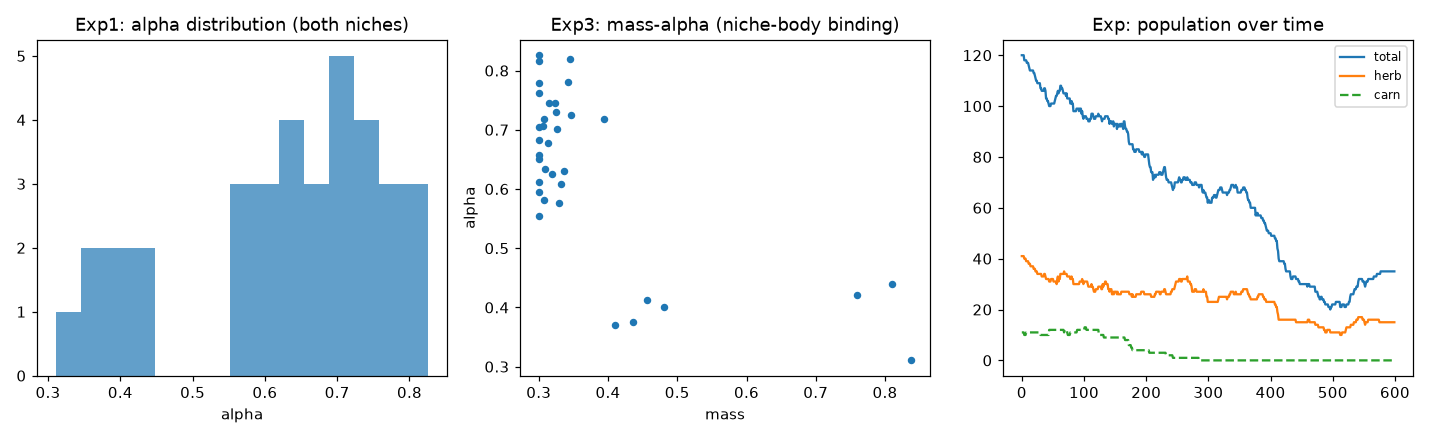
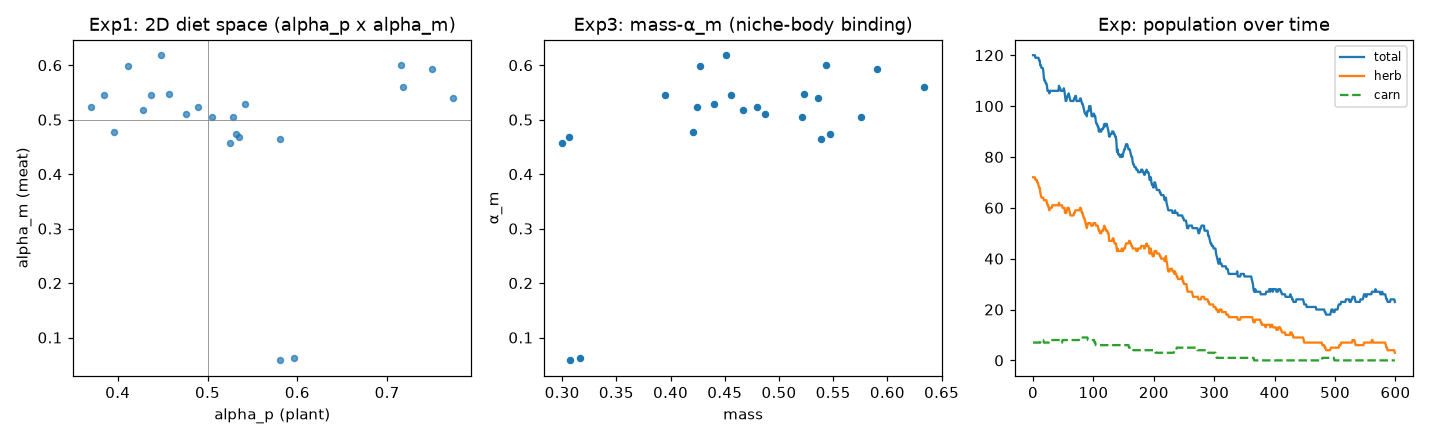
ai-theory: stage25 食性二维化（R122）— α 拆 α_p/α_m 独立基因：全能税（双高者重税）/主导偏好判定/捕食回报 3.5 补偿爬升；决策空间四象限（杂食/专业/挑食）；主判定食肉 52% 食草 100% ✓ 捕食链自持

diff --git a/m5/stage25_body_size_layers.py b/m5/stage25_body_size_layers.py
@@ -19,15 +19,16 @@ import matplotlib
 matplotlib.use("Agg")
 import matplotlib.pyplot as plt
 
-# ============ 参数总览（精细化 R122）============
-# 环境：W×H=200² / 密度 120 只+300 株（pezzza 0.003/格²——相遇率决定捕食频率）
-# 植物：MATURE 10 / REPRO 0.12 / SPREAD 0.04 / MAX 300 / 外生保底 15%/步
-# 生物：mass 0.5±0.25 / accel 1.0±0.4 / α 0.6±0.2（食肉种子 5-10%）
-# 能量：植物 16×conv×intake / 肉类 3.0×mass×satiety×meat_conv（能量流守恒）
+# ============ 参数总览（精细化 R122 + 食性二维化）============
+# 环境：W×H=200² / 密度 120 只+240 株（pezzza 0.003/格²——植物稀缺驱动捕食）
+# 植物：MATURE 10 / REPRO 0.12 / SPREAD 0.04 / MAX 240 / 外生保底 15%/步
+# 生物：mass 0.5±0.25 / accel 1.0±0.4 / α_p 0.6±0.2 / α_m 0.35±0.2（独立种子）
+# 能量：植物 16×conv(α_p)×intake / 肉类 3.5×mass×satiety×meat_conv(α_m)（能量流守恒）
+# 全能税：α_p+α_m 超 1.2 付 0.3×超额/步（双高者重税——专业者免费——专业化压力）
 # 捕食：资格 accel×1.1 / 冲刺 max(Δa×4,3) / p=0.4+0.4min(1,Δa/2)-0.5体积差
 #       追速=speed+accel / 燃能 0.6/步 / 锁定×3 / 风险调整×p / 本帧判定
 # 记忆：TTL 60 / 新鲜度折扣 / 落空驱逐
-# 进化：小突变 ±10% / 大突变 3%±0.3 / 繁殖线 120 / 上限 120+60m
+# 进化：小突变 ±10% / 大突变 5%±0.3（两基因独立）/ 繁殖线 120 / 上限 120+60m
 RNG = np.random.default_rng(109)
 W, H = 200.0, 200.0   # 100→200（地图 4 倍——pezzza 空间缓冲思路——生态有空间分层）
 CONTACT = 2.0
@@ -40,7 +41,8 @@ MEM_TTL = 60     # 记忆遗忘时间（步——超时未刷新 = 遗忘）
 PLANT_MATURE = 10
 PLANT_REPRO = 0.12   # 0.08→0.12（植物产量支撑种群——否则被吃光灭绝）
 PLANT_SPREAD = 0.04
-MAX_PLANTS = 300   # 500→300（植物稀缺化——采食竞争出现——速度有价值——形态分化压力）
+MAX_PLANTS = 240   # 300→240（资源压力驱动捕食——二维化后杂食全能（α_p/α_m 双高）吃植物
+                   # 无忧 → 无捕食动机——植物稀缺 → 采食竞争 → 肉偏好者转向捕食——Lotka 生态学）
 REPRO_TH = 120.0
 MAX_POP = 500
 VISION = 30.0   # 视野半径（感知范围——发现猎物/察觉威胁）
@@ -56,14 +58,14 @@ def max_speed(mass, accel):
 def decay_rate(mass):
     return 0.4 + 0.35 * mass
 
-def plant_conv(alpha):
-    """植物转换度（α 高 = 食草倾向 = 植物全转换——α 低保底 0.15——饿不死但效率极低）"""
-    return 0.15 + 0.85 * alpha
+def plant_conv(alpha_p):
+    """植物转换度（植物偏好基因 α_p 高 = 植物全转换——低保底 0.15——饿不死但效率极低）"""
+    return 0.15 + 0.85 * alpha_p
 
-def meat_conv(alpha):
-    """肉类转换度（α 低 = 食肉倾向 = 肉类全转换——α 高保底 0.05——吃草者吃肉几乎无收益——
-    0.15→0.05：更极端专业化——否则 α>0.7 者吃肉仍净正——全体追猎）"""
-    return 0.03 + 0.85 * (1.0 - alpha)
+def meat_conv(alpha_m):
+    """肉类转换度（肉类偏好基因 α_m 高 = 肉类全转换——低保底 0.03——吃草者吃肉几乎无收益）
+    食性二维化：α_p/α_m 独立变异——杂食（双高）/专业（单高）/挑食（双低）都能涌现"""
+    return 0.03 + 0.85 * alpha_m
 
 def sat_max(mass):
     """storage（能量储备）：饱食度上限随质量——大动物耐饿（脂肪储备——现实：骆驼/熊）——
@@ -89,9 +91,10 @@ class LayerWorld:
         self.lock_age = np.zeros(n0)   # 锁定时长（超时解锁——追丢）
         self.satiety = np.full(n0, 60.0)
         self.alive = np.ones(n0, dtype=bool)
-        # α 初始 0.6±0.2（食肉种子少量——5-10%——否则初始食肉 22 只吃光猎物——
-        # 专业化应进化涌现而非预置大军——生态学捕食者/猎物 1:10+）
-        self.alpha = np.clip(0.6 + RNG.normal(0, 0.2, n0), 0.05, 0.95)
+        # 食性二维化：α_p（植物偏好）0.6±0.2 + α_m（肉类偏好）0.35±0.2 独立种子——
+        # 专业食草起点——食肉生态位由选择涌现（独立 + 全能税：全能者重税——专业者免费）
+        self.alpha_p = np.clip(0.6 + RNG.normal(0, 0.2, n0), 0.05, 0.95)
+        self.alpha_m = np.clip(0.35 + RNG.normal(0, 0.2, n0), 0.05, 0.95)
         self.px = RNG.uniform(0, W, plants0)
         self.py = RNG.uniform(0, H, plants0)
         self.page = np.zeros(plants0)
@@ -179,7 +182,7 @@ class LayerWorld:
                 ang = (ang + np.pi) % (2*np.pi) - np.pi   # 归一化 [-π, π]
                 if d < VISION and abs(ang) < FOV_HALF:   # 前方锥内才可见
                     # 摄入量随质量（大动物一口多——intake 维度）
-                    targets.append((i, fx, fy, PLANT_REWARD / d * urge_full[i] * plant_conv(self.alpha[i]) * intake(self.mass[i]), "food"))
+                    targets.append((i, fx, fy, PLANT_REWARD / d * urge_full[i] * plant_conv(self.alpha_p[i]) * intake(self.mass[i]), "food"))
                     # 写入记忆（写回缓存——看到的位置记下来——转头后仍可寻）
                     self.memory[i][(int(fx), int(fy))] = ["food", 0]
         # 捕食目标（用户设计：冲刺预判——冲刺能覆盖距离才生成（避免失败冲刺亏空）+
@@ -212,10 +215,11 @@ class LayerWorld:
                     # （d2 超出冲刺范围）——approach>0 曾误滤（accel 补偿在追逐中不存在））
                     if d < VISION and abs(ang) < FOV_HALF:
                         cost = 3.0 + (self.accel[i] - self.accel[j])   # 冲刺代价（研究：失败亏空但非致命）
-                        # 肉类能量 = 猎物体积×饱食度（身体+体内能量——能量包）× 转换度——预期净收益
-                        # 系数 3.0 + 风险调整（价值 ×p_success 挡业余者）：专业者回报 48/次
-                        # （1.6/步 > 消耗 0.8——可繁殖）——1.5 时期望只略高于采食——方差杀小种群
-                        net = p_success * 2.5 * self.mass[j] * self.satiety[j] * meat_conv(self.alpha[i]) \
+                        # 肉类能量 = 猎物体积×饱食度（身体+体内能量——能量包）× 肉类转换度——预期净收益
+                        # α_m 高者（肉偏好基因）net 大——捕食资格由 α_m 驱动（食性决策二维化）
+                        # 3.5：二维化后 meat_conv 天然更低（α_m 需爬高——回报补偿爬升代价——
+                        # 杂食者被全能税+风险调整挡——安全）
+                        net = p_success * 3.5 * self.mass[j] * self.satiety[j] * meat_conv(self.alpha_m[i]) \
                               - cost - 0.6 * d / max(self.speed[i] + self.accel[i], 0.5)
                         if net > 0:   # 预期净收益 > 0 才捕（多次尝试的期望——捕食 = 风险投资）
                             # 追猎锁定：持续追同一只（价值 ×3——否则每帧换目标——距离永不收敛）
@@ -238,7 +242,7 @@ class LayerWorld:
                     d = 1e-6
                 fresh = 1.0 - age / MEM_TTL   # 新鲜度 0-1（越新越可信）
                 if kind == "food":
-                    targets.append((i, qx, qy, PLANT_REWARD / d * urge_full[i] * self.alpha[i] * intake(self.mass[i]) * (0.3 + 0.7 * fresh),
+                    targets.append((i, qx, qy, PLANT_REWARD / d * urge_full[i] * plant_conv(self.alpha_p[i]) * intake(self.mass[i]) * (0.3 + 0.7 * fresh),
                                     "memfood"))
                 else:   # prey 记忆（弱——猎物已移动——只当方向提示）
                     targets.append((i, qx, qy, 0.2 * PLANT_REWARD / d * urge_full[i] * (0.3 + 0.7 * fresh),
@@ -299,7 +303,7 @@ class LayerWorld:
                 idx = int(np.argmin(ds))
                 if ds[idx] < CONTACT:
                     # 摄入随质量（intake）+ 上限随质量（storage——耐饿）
-                    self.satiety[i] = min(sat_max(self.mass[i]), self.satiety[i] + PLANT_REWARD * plant_conv(self.alpha[i]) * intake(self.mass[i]))
+                    self.satiety[i] = min(sat_max(self.mass[i]), self.satiety[i] + PLANT_REWARD * plant_conv(self.alpha_p[i]) * intake(self.mass[i]))
                     if kind == "memfood":
                         self.memory[i][(int(tx), int(ty))] = ["food", 0]   # 记忆命中——刷新（写回）
                     self.px = np.delete(self.px, idx)
@@ -319,9 +323,8 @@ class LayerWorld:
                 if self.alive[j] and d < d_charge:   # 本帧开始时已在冲刺范围内才掷骰子
                     self.satiety[i] -= charge_cost   # 冲刺消耗（无论成败）
                     if RNG.random() < p_success:   # 概率性成功（Wilson：捕食成功率低）
-                        # 肉类能量 = 猎物体积×饱食度（身体+体内能量）× 转换度（能量流守恒——
-                        # 大而饱的猎物 = 大餐——小饿猎物 = 零食）——上限随质量（storage）
-                        self.satiety[i] = min(sat_max(self.mass[i]), self.satiety[i] + 3.0 * self.mass[j] * self.satiety[j] * meat_conv(self.alpha[i]))
+                        # 肉类能量 = 猎物体积×饱食度（身体+体内能量）× 肉类转换度（α_m——能量流守恒）
+                        self.satiety[i] = min(sat_max(self.mass[i]), self.satiety[i] + 3.5 * self.mass[j] * self.satiety[j] * meat_conv(self.alpha_m[i]))
                         self.alive[j] = False
                         self.target_lock[i] = -1   # 捕食成功——解锁
                         self.lock_age[i] = 0
@@ -339,24 +342,31 @@ class LayerWorld:
             if i not in moved:
                 self.heading[i] += 0.785   # 45°/步（8 步扫一圈）
         # 消耗 = 体积 + 加速度成本（a 高 = 冲刺肌肉 = 高代谢——Wilson 2018：捕食者维持成本高）
-        self.satiety[alive] -= decay_rate(self.mass[alive]) + self.accel[alive] * 0.15
+        #        + 全能代价（α_p+α_m 合计超 1.2 = 两套消化系统 = 更高维持成本——
+        #        单一偏好（无论哪边）免费——双高者重税——否则 α_m 中性漂移——捕食专业化无压力）
+        omnivory_cost = 0.3 * np.clip(self.alpha_p[alive] + self.alpha_m[alive] - 1.2, 0, 0.8)
+        self.satiety[alive] -= decay_rate(self.mass[alive]) + self.accel[alive] * 0.15 + omnivory_cost
         self.alive[np.where(self.satiety <= 0)[0]] = False
         alive = np.where(self.alive)[0]
         new = []
         for i in alive:
             if self.satiety[i] > REPRO_TH and len(alive) + len(new) < MAX_POP:
                 v = np.clip(self.mass[i] * RNG.uniform(0.9, 1.1), 0.3, 1.7)
-                # 偶发大突变（3% ±0.3 跳跃——宏突变/基因重组——低 α 种子重注入——
-                # 否则捕食者灭绝后 α 漂不回——生态位不可恢复——真实进化靠突变保持多样性）
-                if RNG.random() < 0.03:
-                    a = np.clip(self.alpha[i] + RNG.uniform(-0.3, 0.3), 0.05, 0.95)
+                # 偶发大突变（3% ±0.3 跳跃——宏突变/基因重组——低偏好种子重注入——
+                # 否则捕食者灭绝后漂不回——生态位不可恢复）——两基因各自独立突变
+                if RNG.random() < 0.05:
+                    ap = np.clip(self.alpha_p[i] + RNG.uniform(-0.3, 0.3), 0.05, 0.95)
                 else:
-                    a = np.clip(self.alpha[i] * RNG.uniform(0.9, 1.1), 0.05, 0.95)
+                    ap = np.clip(self.alpha_p[i] * RNG.uniform(0.9, 1.1), 0.05, 0.95)
+                if RNG.random() < 0.05:
+                    am = np.clip(self.alpha_m[i] + RNG.uniform(-0.3, 0.3), 0.05, 0.95)
+                else:
+                    am = np.clip(self.alpha_m[i] * RNG.uniform(0.9, 1.1), 0.05, 0.95)
                 ac = np.clip(self.accel[i] * RNG.uniform(0.9, 1.1), 0.3, 2.5)   # 加速度基因变异
                 new.append((self.x[i] + RNG.uniform(-3, 3), self.y[i] + RNG.uniform(-3, 3),
-                            v, max_speed(v, ac), 40.0, a, ac, RNG.uniform(0, 2*np.pi)))
+                            v, max_speed(v, ac), 40.0, ap, am, ac, RNG.uniform(0, 2*np.pi)))
                 self.satiety[i] -= 60.0
-        for nx, ny, nv, ns, nsat, na, nac, nh in new:
+        for nx, ny, nv, ns, nsat, nap, nam, nac, nh in new:
             self.x = np.append(self.x, np.clip(nx, 0, W))
             self.y = np.append(self.y, np.clip(ny, 0, H))
             self.mass = np.append(self.mass, nv)
@@ -367,14 +377,16 @@ class LayerWorld:
             self.target_lock = np.append(self.target_lock, -1)
             self.lock_age = np.append(self.lock_age, 0)
             self.satiety = np.append(self.satiety, nsat)
-            self.alpha = np.append(self.alpha, na)
+            self.alpha_p = np.append(self.alpha_p, nap)
+            self.alpha_m = np.append(self.alpha_m, nam)
             self.alive = np.append(self.alive, True)
         self.plant_grow()
         a = np.where(self.alive)[0]
-        herb = np.sum(self.alpha[a] > 0.7) if len(a) else 0
-        carn = np.sum(self.alpha[a] < 0.3) if len(a) else 0
-        vol_herb = np.mean(self.mass[a][self.alpha[a] > 0.7]) if herb else 0
-        vol_carn = np.mean(self.mass[a][self.alpha[a] < 0.3]) if carn else 0
+        # 生态位判定（二维——主导偏好）：食草 = α_p 比 α_m 高 0.2；食肉 = α_m 比 α_p 高 0.2
+        herb = np.sum(self.alpha_p[a] > self.alpha_m[a] + 0.2) if len(a) else 0
+        carn = np.sum(self.alpha_m[a] > self.alpha_p[a] + 0.2) if len(a) else 0
+        vol_herb = np.mean(self.mass[a][self.alpha_p[a] > self.alpha_m[a] + 0.2]) if herb else 0
+        vol_carn = np.mean(self.mass[a][self.alpha_m[a] > self.alpha_p[a] + 0.2]) if carn else 0
         self.history.append((np.sum(self.alive), len(self.px), herb, carn, vol_herb, vol_carn))
 
     def run(self, T):
@@ -417,10 +429,10 @@ def run():
     else:
         print(f"  生态位未涌现（需检查参数）")
 
-    # ---- 实验 3：α-体积共演化 ----
+    # ---- 实验 3：偏好-体积共演化 ----
     a = np.where(w.alive)[0]
-    corr = np.corrcoef(w.alpha[a], w.mass[a])[0, 1] if len(a) > 2 else 0
-    print(f"\n[exp3] α-体积相关: {corr:+.2f}"
+    corr = np.corrcoef(w.alpha_m[a], w.mass[a])[0, 1] if len(a) > 2 else 0
+    print(f"\n[exp3] 肉偏好-体积相关: {corr:+.2f}"
           f"（{'✓ 负相关——小体积食肉/大体积食草——生态位-体型绑定' if corr < -0.3 else '关联弱'}）")
 
     # ---- 实验 4：对比 stage24（捕食冻结） ----
@@ -430,12 +442,14 @@ def run():
 
     # ---- 图 ----
     fig, axes = plt.subplots(1, 3, figsize=(13, 4))
-    axes[0].hist(w.alpha[a], bins=15, alpha=0.7, label="alpha")
-    axes[0].set_title("Exp1: alpha distribution (both niches)")
-    axes[0].set_xlabel("alpha")
-    axes[1].scatter(w.mass[a], w.alpha[a], s=15)
-    axes[1].set_title("Exp3: mass-alpha (niche-body binding)")
-    axes[1].set_xlabel("mass"); axes[1].set_ylabel("alpha")
+    # 二维食性空间（α_p × α_m——四象限：专业食草/专业食肉/杂食/挑食）
+    axes[0].scatter(w.alpha_p[a], w.alpha_m[a], s=15, alpha=0.7)
+    axes[0].axhline(0.5, color="gray", lw=0.5); axes[0].axvline(0.5, color="gray", lw=0.5)
+    axes[0].set_title("Exp1: 2D diet space (alpha_p x alpha_m)")
+    axes[0].set_xlabel("alpha_p (plant)"); axes[0].set_ylabel("alpha_m (meat)")
+    axes[1].scatter(w.mass[a], w.alpha_m[a], s=15)
+    axes[1].set_title("Exp3: mass-α_m (niche-body binding)")
+    axes[1].set_xlabel("mass"); axes[1].set_ylabel("α_m")
     axes[2].plot(h[:, 0], label="total")
     axes[2].plot(h[:, 2], label="herb")
     axes[2].plot(h[:, 3], "--", label="carn")
